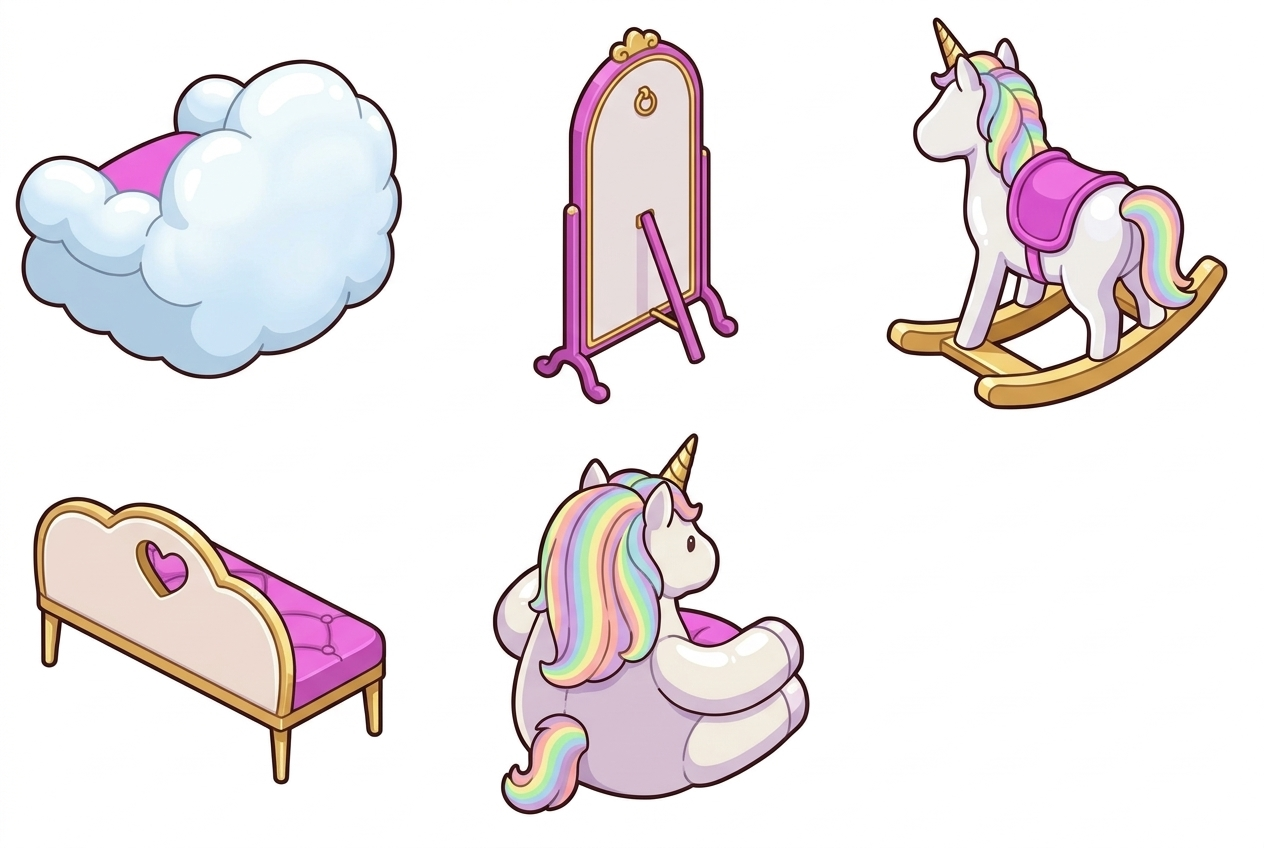
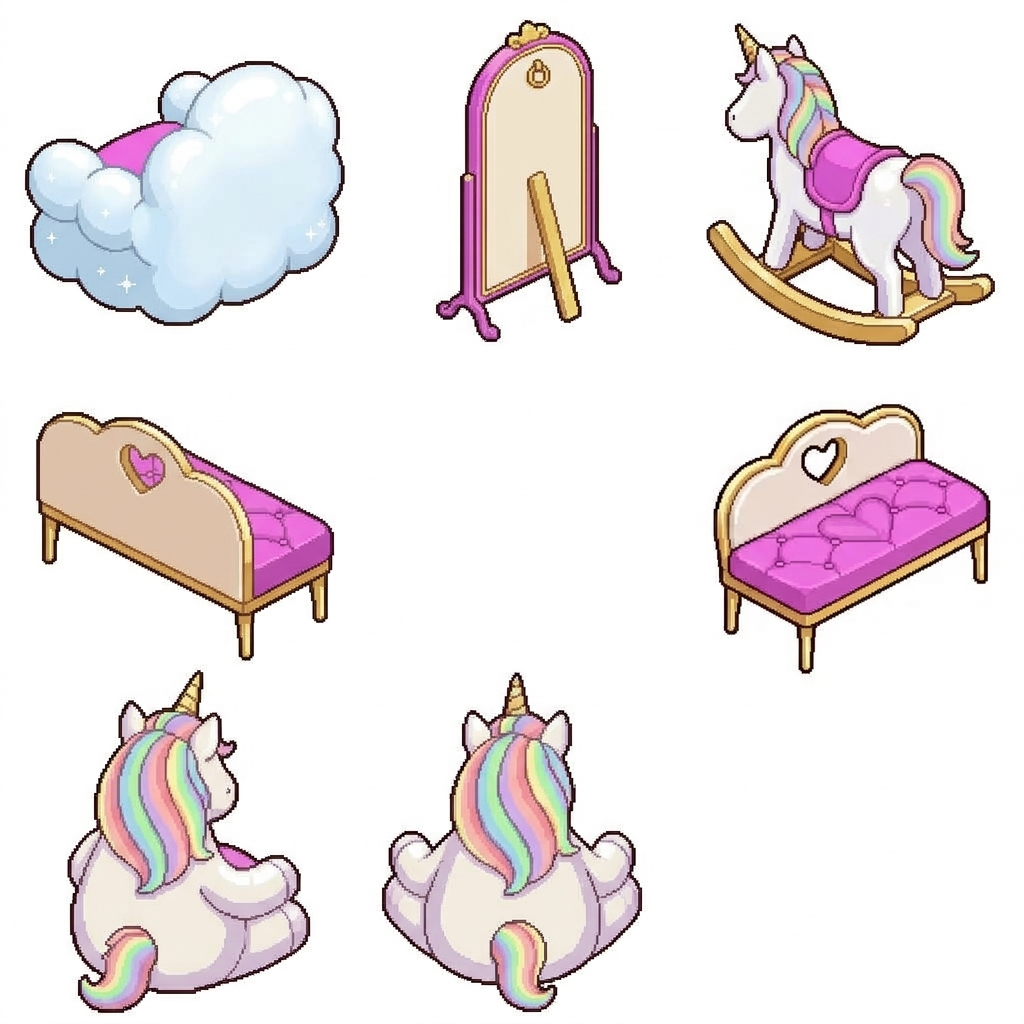
Pixel-art backs for the unicorn set
Second Gemini try replaces the smooth backs. Rows layout in the cutter. Version 2026.11.16e.

Claude-Session: https://claude.ai/code/session_014bxtQwGCqcJn3mQBcD8JTQ

diff --git a/math-quest.html b/math-quest.html
@@ -1465,13 +1465,13 @@ const ROOM_CATALOG = [
   {"id":"stack_ice","n":"מגדל גלידות","p":6,"g":"wall","wall":1,"solid":1,"src":"assets/4d8295845c0a.webp","r":[-87.5,-100.0,175.0,200.0],"im":[-101.7,-137.3,189.8,275.8]},
   {"id":"stack_crystal","n":"מגדל קריסטלים וכוכבים","p":6,"g":"wall","wall":1,"solid":1,"src":"assets/254a97831455.webp","r":[-87.5,-75.0,175.0,150.0],"im":[-101.7,-95.9,189.8,210.6]},
   {"id":"stack_sweets","n":"מגדל ממתקים","p":6,"g":"wall","wall":1,"solid":1,"src":"assets/e814da292ee7.webp","r":[-87.5,-87.5,175.0,175.0],"im":[-101.4,-115.4,189.2,238.4]},
-  {"id":"cloudarm","n":"כורסת ענן","p":5,"g":"furniture","fw":4,"fd":4,"src":"assets/55ec83ca1ee9.webp","base":"assets/efa6b85eabb5.webp","r":[-92.0,-92.2,184.0,190.9],"ref":0.9078,"dc":"#cdb4f5","pk":"cloudarm","back":{"src":"assets/038f88b3a186.webp","base":"assets/4b88b98cad6c.webp","ref":0.8929,"r":[-92.0,-56.2,184.0,154.9]}},
+  {"id":"cloudarm","n":"כורסת ענן","p":5,"g":"furniture","fw":4,"fd":4,"src":"assets/55ec83ca1ee9.webp","base":"assets/efa6b85eabb5.webp","r":[-92.0,-92.2,184.0,190.9],"ref":0.9078,"dc":"#cdb4f5","pk":"cloudarm","back":{"src":"assets/ccf0b6cd2f9a.webp","base":"assets/b060553d0227.webp","ref":0.8941,"r":[-92.0,-67.9,184.0,166.6]}},
   {"id":"cloudott","top":{"c":[0,0,1,1],"z":33},"n":"שרפרף ענן","p":4,"g":"furniture","fw":2,"fd":2,"src":"assets/e75ea13244b1.webp","base":"assets/9f57c981ec12.webp","r":[-39.0,-23.4,78.0,60.4],"ref":0.9118,"dc":"#cdb4f5","pk":"cloudott"},
-  {"id":"unimirror","bsw":1,"n":"מראה חד קרן","p":5,"g":"furniture","fw":2,"fd":2,"src":"assets/38b0f66a26ef.webp","base":"assets/e08d6efe70fb.webp","r":[-35.0,-91.7,70.0,128.7],"ref":0.7333,"dc":"#e6c8ff","pk":"unimirror","back":{"src":"assets/0105251ba54b.webp","base":"assets/070a1c469302.webp","ref":0.7333,"r":[-35.0,-92.2,70.0,129.2]}},
+  {"id":"unimirror","bsw":1,"n":"מראה חד קרן","p":5,"g":"furniture","fw":2,"fd":2,"src":"assets/38b0f66a26ef.webp","base":"assets/e08d6efe70fb.webp","r":[-35.0,-91.7,70.0,128.7],"ref":0.7333,"dc":"#e6c8ff","pk":"unimirror","back":{"src":"assets/98465e603fd1.webp","base":"assets/e78db94545fc.webp","ref":0.7412,"r":[-35.0,-84.3,70.0,121.3]}},
   {"id":"rbcurtain","n":"וילון קשת","p":4,"g":"furniture","fw":2,"fd":2,"src":"assets/44a4ca12216a.webp","base":"assets/1ba24cfb2db2.webp","r":[-42.0,-107.9,84.0,144.9],"ref":0.8157,"dc":"#f4c25b","pk":"rbcurtain"},
-  {"id":"unihorse","n":"סוס נדנדה חד קרן","p":6,"g":"play","fw":4,"fd":2,"src":"assets/e5fe2e39dbf6.webp","base":"assets/39f912eeabb1.webp","r":[-44.0,-36.4,138.0,109.9],"ref":0.851,"dc":"#f48fd0","pk":"unihorse","back":{"src":"assets/9aefad9e8cfc.webp","base":"assets/336f0c9e15a7.webp","ref":0.8216,"r":[-44.0,-116.6,138.0,190.4]}},
-  {"id":"heartbench","bsw":1,"top":{"c":[0,0,1,2],"z":64},"n":"ספסל לב","p":5,"g":"furniture","fw":2,"fd":4,"src":"assets/2096560cb4e1.webp","base":"assets/2eaa825b5969.webp","r":[-94.0,-87.2,138.0,161.0],"ref":0.902,"dc":"#b79af0","pk":"heartbench","back":{"src":"assets/75303fb417c6.webp","base":"assets/aafbec35a798.webp","ref":0.8686,"r":[-94.0,-32.3,138.0,105.9],"top":{"c":[0,0,1,2],"z":64}}},
-  {"id":"unithrone","n":"כס בובת חד קרן","p":6,"g":"furniture","fw":4,"fd":4,"src":"assets/c7cb4c8ee84c.webp","base":"assets/01b2d141f73c.webp","r":[-92.0,-55.9,184.0,154.4],"ref":0.8863,"dc":"#cdb4f5","pk":"unithrone","back":{"src":"assets/ecded0933f91.webp","base":"assets/7073e7523688.webp","ref":0.8843,"r":[-92.0,-78.1,184.0,176.6]}},
+  {"id":"unihorse","n":"סוס נדנדה חד קרן","p":6,"g":"play","fw":4,"fd":2,"src":"assets/e5fe2e39dbf6.webp","base":"assets/39f912eeabb1.webp","r":[-44.0,-36.4,138.0,109.9],"ref":0.851,"dc":"#f48fd0","pk":"unihorse","back":{"src":"assets/c353f11248c2.webp","base":"assets/d87cc6db7f46.webp","ref":0.8098,"r":[-44.0,-86.5,138.0,160.2]}},
+  {"id":"heartbench","bsw":1,"top":{"c":[0,0,1,2],"z":64},"n":"ספסל לב","p":5,"g":"furniture","fw":2,"fd":4,"src":"assets/2096560cb4e1.webp","base":"assets/2eaa825b5969.webp","r":[-94.0,-87.2,138.0,161.0],"ref":0.902,"dc":"#b79af0","pk":"heartbench","back":{"src":"assets/f77cab08f6e2.webp","base":"assets/b5b31f2b799e.webp","ref":0.8333,"r":[-94.0,-47.0,138.0,120.7],"top":{"c":[0,0,1,2],"z":64}}},
+  {"id":"unithrone","n":"כס בובת חד קרן","p":6,"g":"furniture","fw":4,"fd":4,"src":"assets/c7cb4c8ee84c.webp","base":"assets/01b2d141f73c.webp","r":[-92.0,-55.9,184.0,154.4],"ref":0.8863,"dc":"#cdb4f5","pk":"unithrone","back":{"src":"assets/acea41827c41.webp","r":[-92.0,-109.6,184.0,208.1]}},
   {"id":"starpouf","top":{"c":[0,0,1,1],"z":27},"n":"פוף כוכב","p":3,"g":"furniture","fw":2,"fd":2,"src":"assets/5cb574a6882d.webp","base":"assets/bba268a67458.webp","r":[-37.0,-19.3,74.0,56.3],"ref":0.9039,"dc":"#f6d365","pk":"starpouf"},
   {"id":"cloudlamp","n":"מנורת ענן","p":4,"g":"furniture","fw":2,"fd":2,"src":"assets/9b4bb7d3c43e.webp","base":"assets/443237e2a5c7.webp","r":[-31.0,-55.1,62.0,92.1],"ref":0.8431,"dc":"#f4c25b","pk":"cloudlamp"},
   {"id":"pl23","n":"שיח קובייה","p":3,"g":"plants","fw":2,"fd":2,"src":"assets/cf876f2da540.webp","base":"assets/f867d700235a.webp","r":[-35.0,-99.1,70.0,136.1],"ref":0.8682},
@@ -2591,7 +2591,7 @@ function cloudProfileFromDoc(C, helpers){
 // ===== CLOUD (Google sign-in, cloud progress, problem reports) =====
 // Local-first: the game always works from this device's storage. The cloud is a mirror, so no internet / no account / no quota never blocks play.
 // Everything here is off while CLOUD_CONFIG is null. See firebase/SETUP.md for how to create the (free) Firebase project and paste its settings below.
-const APP_VERSION = '2026.11.16d';       // keep equal to VERSION in sw.js (a test checks it)
+const APP_VERSION = '2026.11.16e';       // keep equal to VERSION in sw.js (a test checks it)
 const BUILD_COMMIT = '';                 // the full id of the commit this page was built from: the deploy workflow (.github/workflows/tests.yml) fills it in; empty in a plain checkout
 const REPO_URL = 'https://github.com/matan-gk/matan-gk.github.io';
 const CLOUD_CONFIG = {apiKey:"AIzaSyAlq_TJNGvWPJpUrpbdq_hkAoURydqMzm0", authDomain:"learning-quest-1.firebaseapp.com", projectId:"learning-quest-1", appId:"1:98931179722:web:78fb00084ccba3efb53433"};   // e.g. {apiKey:'...', authDomain:'xxx.firebaseapp.com', projectId:'xxx', appId:'...'}

diff --git a/tests/items6test.js b/tests/items6test.js
@@ -12,7 +12,7 @@ const U1=['cloudarm','cloudott','unimirror','rbcurtain','unihorse','heartbench',
 ok(await ev(I=>I.every(id=>{const c=catOf(id);return c&&c.n&&c.p>=2&&c.p<=6&&/^assets\//.test(c.src)&&c.r[2]>0&&c.r[3]>0&&c.base&&c.ref>0;}),[...U1,...U2]),'15 new items: name, price 2-6, picture, a colourable original');
 ok(await ev(I=>I.every(id=>catOf(id).pk&&PART_NAMES[catOf(id).pk]),U1),'the nine furniture items have a colour part with a Hebrew name');
 ok(await ev(I=>I.every(id=>catOf(id).g==='plants'&&!catOf(id).pk),U2),'the six plants are in the plants group and recolour the pot');
-ok(await ev(()=>['cloudarm','unimirror','unihorse','heartbench','unithrone'].every(id=>catOf(id).back&&catOf(id).back.src&&catOf(id).back.base)&&['cloudott','rbcurtain','starpouf','cloudlamp'].every(id=>!catOf(id).back)),'five items have a (colourable) back picture, four do not');
+ok(await ev(()=>['cloudarm','unimirror','unihorse','heartbench'].every(id=>catOf(id).back&&catOf(id).back.src&&catOf(id).back.base)&&catOf('unithrone').back&&catOf('unithrone').back.src&&['cloudott','rbcurtain','starpouf','cloudlamp'].every(id=>!catOf(id).back)),'five items have a back picture (the throne's shows so little of its cushion that it is not colourable), four do not');
 ok(await ev(()=>catOf('cloudarm').fw===4&&catOf('cloudarm').fd===4&&catOf('unihorse').fw*catOf('unihorse').fd===8&&catOf('cloudott').fw===2),'footprints 2x2, 2x1 and 1x1 cells (in grid units)');
 ok(await ev(()=>catOf('pl28').fw===4&&catOf('pl28').fd===4&&catOf('heartbench').fw===2&&catOf('heartbench').fd===4),'the flower planter is 2x2 cells and the bench is 1x2 (its long side runs the way its picture does)');
 ok(await ev(()=>PART_NAMES.unihorse==='אוכף'),'the horse\'s colour part is the saddle');

diff --git a/tests/groundtest.js b/tests/groundtest.js
@@ -3,7 +3,7 @@
 const T=require('./lib.js');
 const {chromium}=require('playwright');
 let f=0;const ok=(c,m)=>{console.log((c?'ok   ':'FAIL ')+m);if(!c)f++;};
-const WIDE={unimirror:14,"unimirror#back":14,rbcurtain:34,lego:14,sax:30,easel:24,easel2:24,"register#back":26};   // tripod legs / a leaning instrument: the lowest pixel is one leg, not the middle   // register: the back picture's power cord trails to the side
+const WIDE={unimirror:14,"unimirror#back":16,rbcurtain:34,lego:14,sax:30,easel:24,easel2:24,"register#back":26};   // tripod legs / a leaning instrument: the lowest pixel is one leg, not the middle   // register: the back picture's power cord trails to the side
 const FLATTOL={mat:16,track2:34};          // oddly shaped flat art (angled mat, looped track) fits its footprint loosely
 const TOL={front:12,side:30,spot:[0,18],spotX:12,tall:60};   // tall = the big bed levels 4-5 have a canopy that overhangs the floor block
 (async()=>{const b=await chromium.launch({...T.launchOpts});

diff --git a/sw.js b/sw.js
@@ -1,6 +1,6 @@
 // Cupcake Quest service worker: lets the game open with no internet and tells the page when a new version is ready.
 // VERSION must equal APP_VERSION in math-quest.html (a test checks it): changing this file is what makes browsers notice a new release.
-const VERSION = '2026.11.16d';
+const VERSION = '2026.11.16e';
 const CACHE = 'cq-' + VERSION;
 const PAGE = './math-quest.html';
 const CORE = [PAGE, './manifest.webmanifest', './icon-192.png', './icon-512.png', './icon-maskable-512.png', './apple-touch-icon.png'];

diff --git a/tools/items6.py b/tools/items6.py
@@ -25,7 +25,7 @@ def cut_strict(im, box, big, thin=False):
     return Image.fromarray(out[ys.min():ys.max()+1, xs.min():xs.max()+1])
 items4.cut4 = cut_strict
 items4.SHEETS = {
- 'u1': (A+'sheet-u1-unicorn.jpg', ('blobs', 9), A+'sheet-u1-back.jpg', ('blobs', 5)),
+ 'u1': (A+'sheet-u1-unicorn.jpg', ('blobs', 9), A+'sheet-u1-back.jpg', ('rows', 7, [3, 2, 2])),   # the back sheet: armchair, mirror, horse / bench back, bench (a repeat of the front, unused) / throne three-quarter, throne straight (unused)
  'u2': (A+'sheet-u2-topiary.jpg', ('blobs', 6), A+'sheet-u2-topiary.jpg', ('blobs', 6)),
 }
 # id: (sheet, picture no., hebrew, price, group, fw, fd (cells), spot width, default colour, part key, back picture no. or None, flat, big, options)
@@ -34,9 +34,9 @@ items4.S = [
  ('cloudott',  'u1', 1, 'שרפרף ענן',            4, 'furniture', 1, 1, 78,  '#cdb4f5', 'cloudott',  None, 0, -2500, ''),
  ('unimirror', 'u1', 2, 'מראה חד קרן',          5, 'furniture', 1, 1, 70,  '#e6c8ff', 'unimirror', 1, 0, -2500, ''),
  ('rbcurtain', 'u1', 3, 'וילון קשת',            4, 'furniture', 1, 1, 84,  '#f4c25b', 'rbcurtain', None, 0, -2500, ''),
- ('unihorse',  'u1', 4, 'סוס נדנדה חד קרן',     6, 'play',      2, 1, 0,   '#f48fd0', 'unihorse',  2, 0, -1000, ''),
+ ('unihorse',  'u1', 4, 'סוס נדנדה חד קרן',     6, 'play',      2, 1, 0,   '#f48fd0', 'unihorse',  2, 0, -400, ''),
  ('heartbench','u1', 5, 'ספסל לב',              5, 'furniture', 1, 2, 0,   '#b79af0', 'heartbench',3, 0, -2500, ''),
- ('unithrone', 'u1', 6, 'כס בובת חד קרן',       6, 'furniture', 2, 2, 0,   '#cdb4f5', 'unithrone', 4, 0, -2500, ''),
+ ('unithrone', 'u1', 6, 'כס בובת חד קרן',       6, 'furniture', 2, 2, 0,   '#cdb4f5', 'unithrone', 5, 0, -2500, ''),
  ('starpouf',  'u1', 7, 'פוף כוכב',             3, 'furniture', 1, 1, 74,  '#f6d365', 'starpouf',  None, 0, -2500, ''),
  ('cloudlamp', 'u1', 8, 'מנורת ענן',            4, 'furniture', 1, 1, 62,  '#f4c25b', 'cloudlamp', None, 0, -7, ''),
  ('pl23', 'u2', 0, 'שיח קובייה',   3, 'plants', 1, 1, 70, '#cdb4f5', 'POT', None, 0, 6000, ''),

diff --git a/tools/items4.py b/tools/items4.py
@@ -58,6 +58,10 @@ def cells(im, lay):
         if k == lay[1]: break
     else: raise SystemExit('expected %d pictures, found %d' % (lay[1], k))
     sl = nd.find_objects(lab); sl.sort(key=lambda o: (o[0].start + o[0].stop))   # by height, then split into rows
+    if lay[0] == 'rows':   # ('rows', n, [pictures in each row]): rows of different lengths
+        out = []; i = 0
+        for m in lay[2]: out += sorted(sl[i:i+m], key=lambda o: o[1].start); i += m
+        return [(max(0, o[1].start-4), max(0, o[0].start-4), min(W, o[1].stop+4), min(H, o[0].stop+4)) for o in out]
     n = lay[1]; cols = 3 if n > 3 else n; out = []
     for i in range(0, n, cols): out += sorted(sl[i:i+cols], key=lambda o: o[1].start)
     return [(max(0, o[1].start-4), max(0, o[0].start-4), min(W, o[1].stop+4), min(H, o[0].stop+4)) for o in out]

diff --git a/docs/ENHANCEMENTS.md b/docs/ENHANCEMENTS.md
@@ -710,3 +710,7 @@ Tests: `tests/items6test.js` (new); `catalogtest`, `colortest`, `spacetest`, `gr
 - `tools/items6.py` adds the flags and tops after cutting (run `python3 tools/items6.py` and then `python3 tools/surfaces.py`).
 - Gemini prompts for pixel-art backs: `docs/personal-space/GEMINI_PROMPTS_UNICORN.md`, "Back pictures, second try".
 Tests: `items6test`, `shelftest`, `surfacetest` (11 hosts), `backtest` updated.
+
+## Step 49: pixel-art back pictures for the unicorn set (branch `room-items-5`; version 2026.11.16e)
+
+The second Gemini try (front sheet attached) is pixel art like the fronts and replaces the smooth backs for the armchair, mirror, horse, bench and throne (`art/sheet-u1-back.jpg`; the sheet also holds a repeat of the bench front and a straight rear of the throne, unused). `tools/items4.py` cells gain a `('rows', n, [per row])` layout. The throne's back shows its seat cushion too little to recolour, so the throne's back is not colourable. The horse's cutter threshold was lowered so the gap under the runners is cut out.

diff --git a/docs/personal-space/GEMINI_PROMPTS_UNICORN.md b/docs/personal-space/GEMINI_PROMPTS_UNICORN.md
@@ -138,4 +138,4 @@ The attached picture is a piece of furniture in pixel art. Draw the same piece t
 ```
 
 ### What the game does with them
-The game already corrects the turn order for the standing mirror and the bench, whose backs were drawn the other way round (flag `bsw`). If the new backs are drawn the usual way (a true 180 degree turn), tell me and I will clear that flag.
+The second try is in the game (; the first try is kept in ). The game already corrects the turn order for the standing mirror and the bench, whose backs were drawn the other way round (flag `bsw`). If the new backs are drawn the usual way (a true 180 degree turn), tell me and I will clear that flag.
